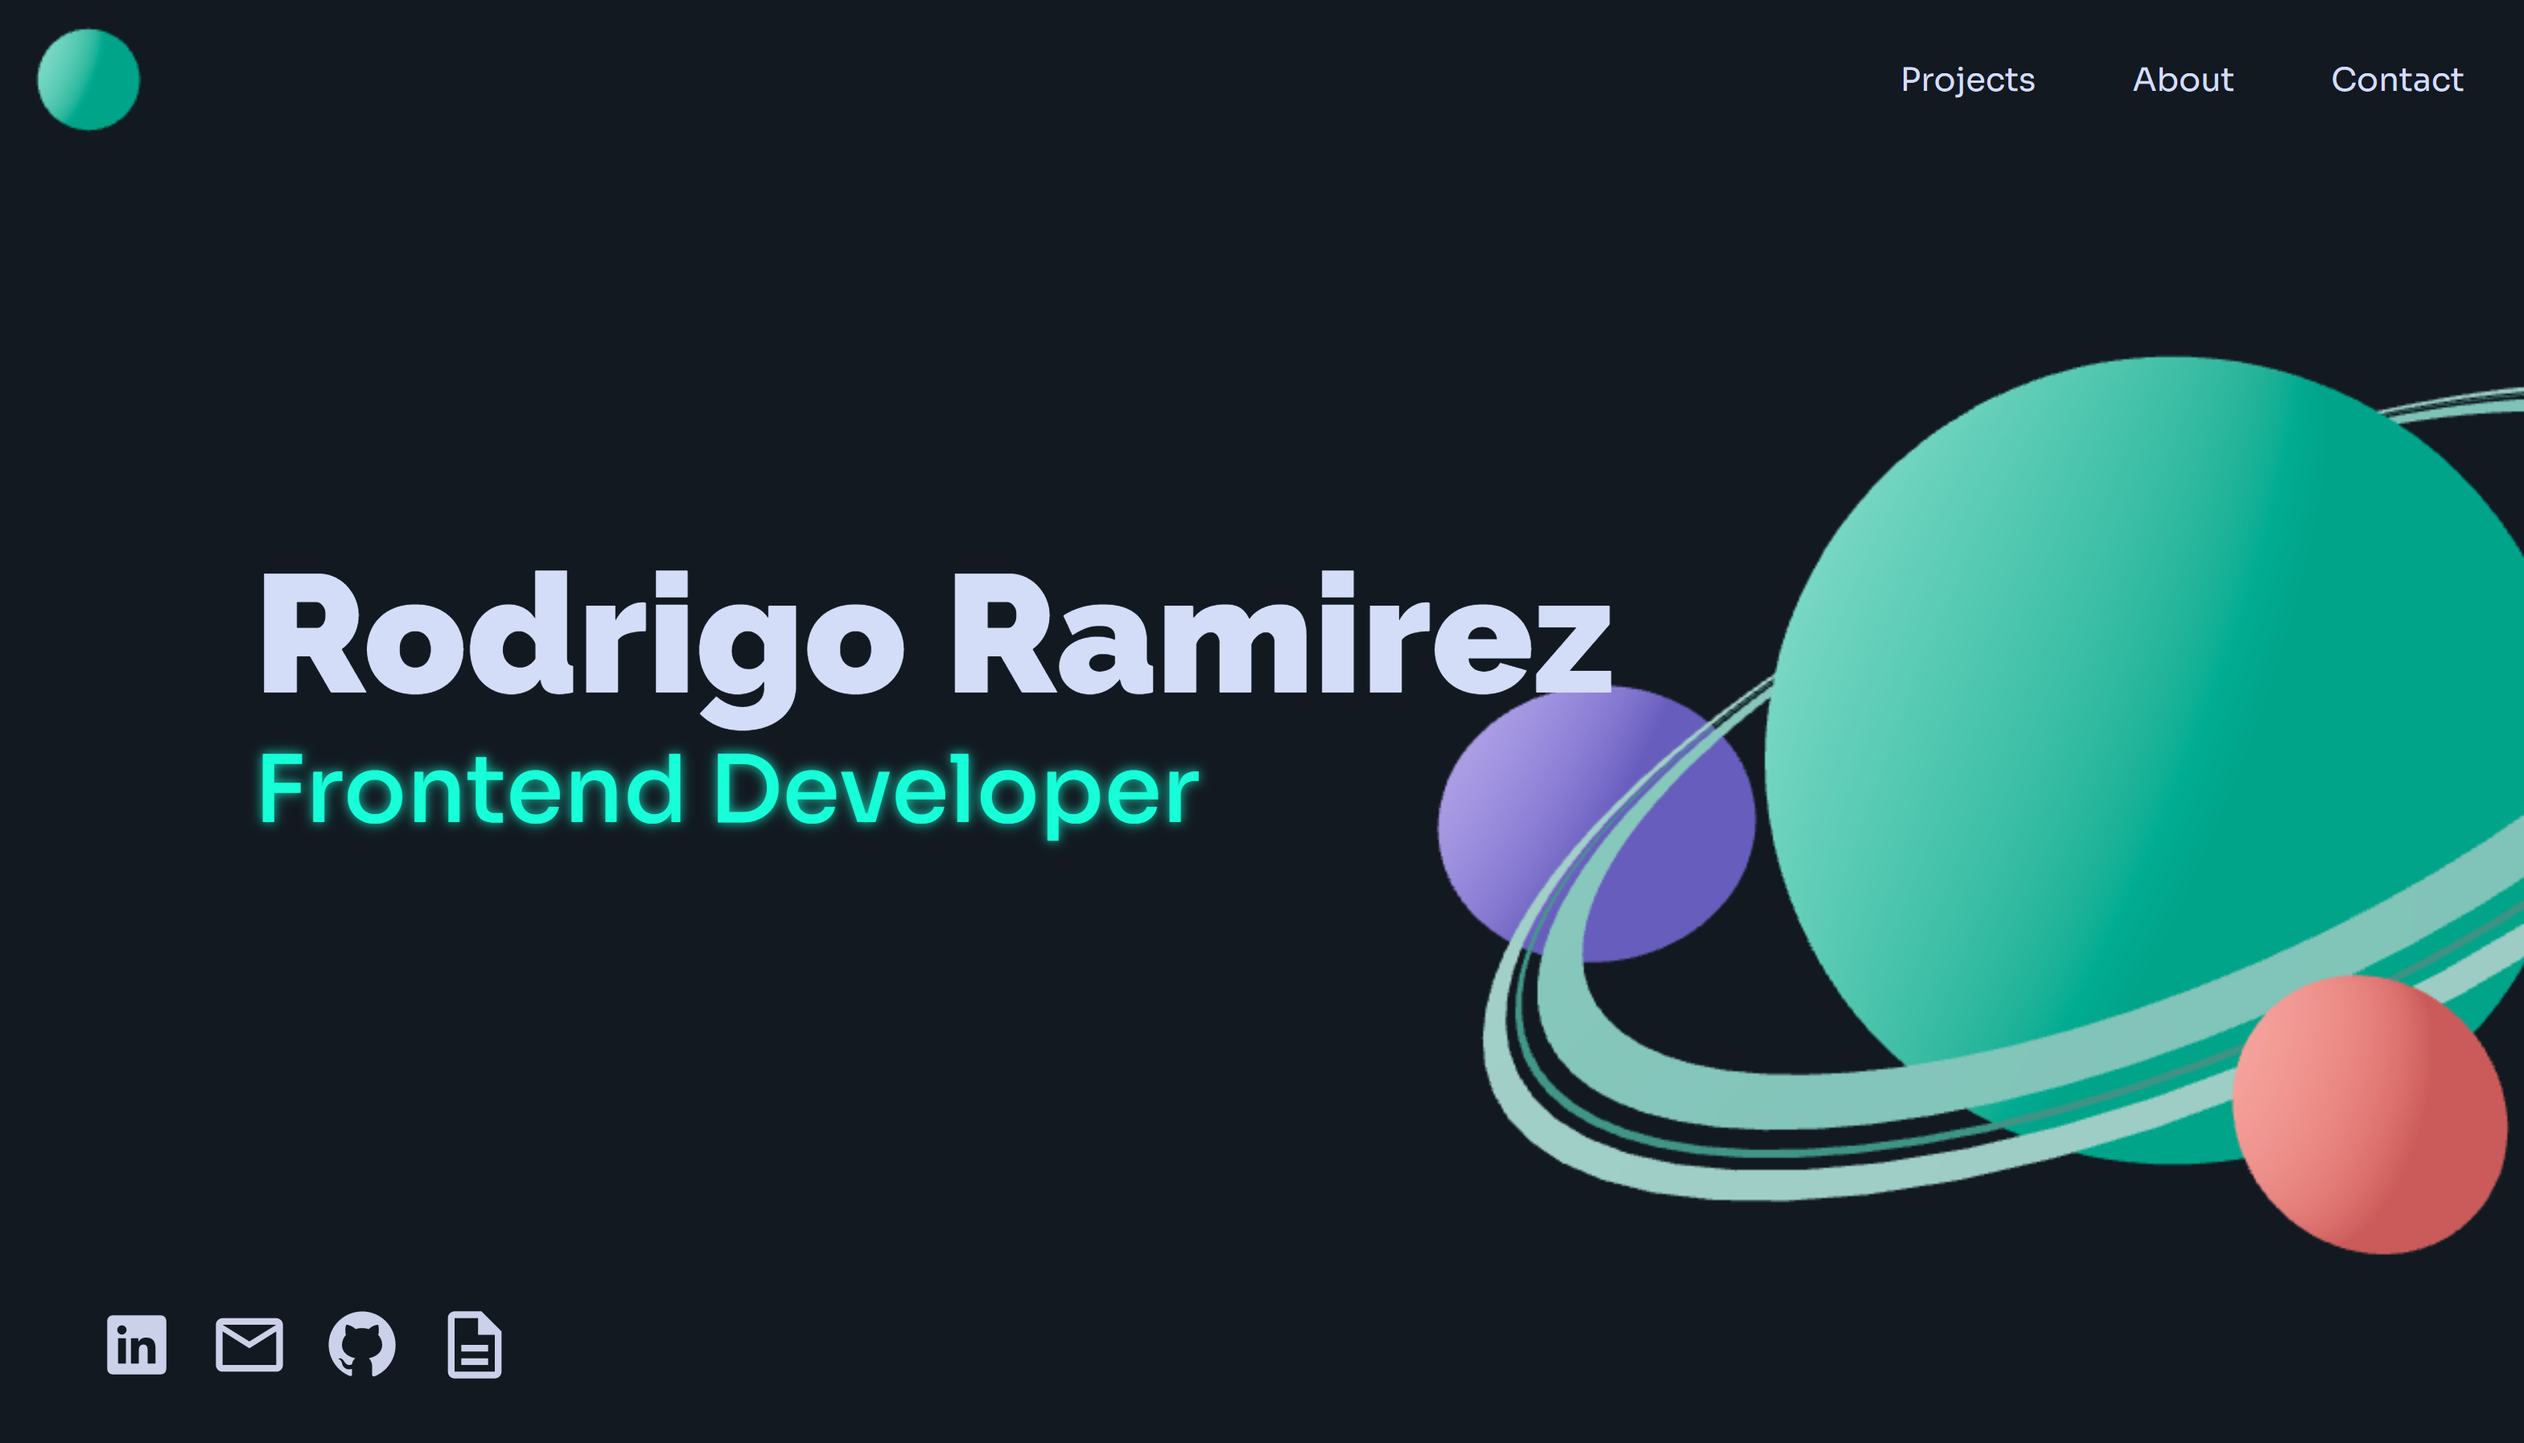
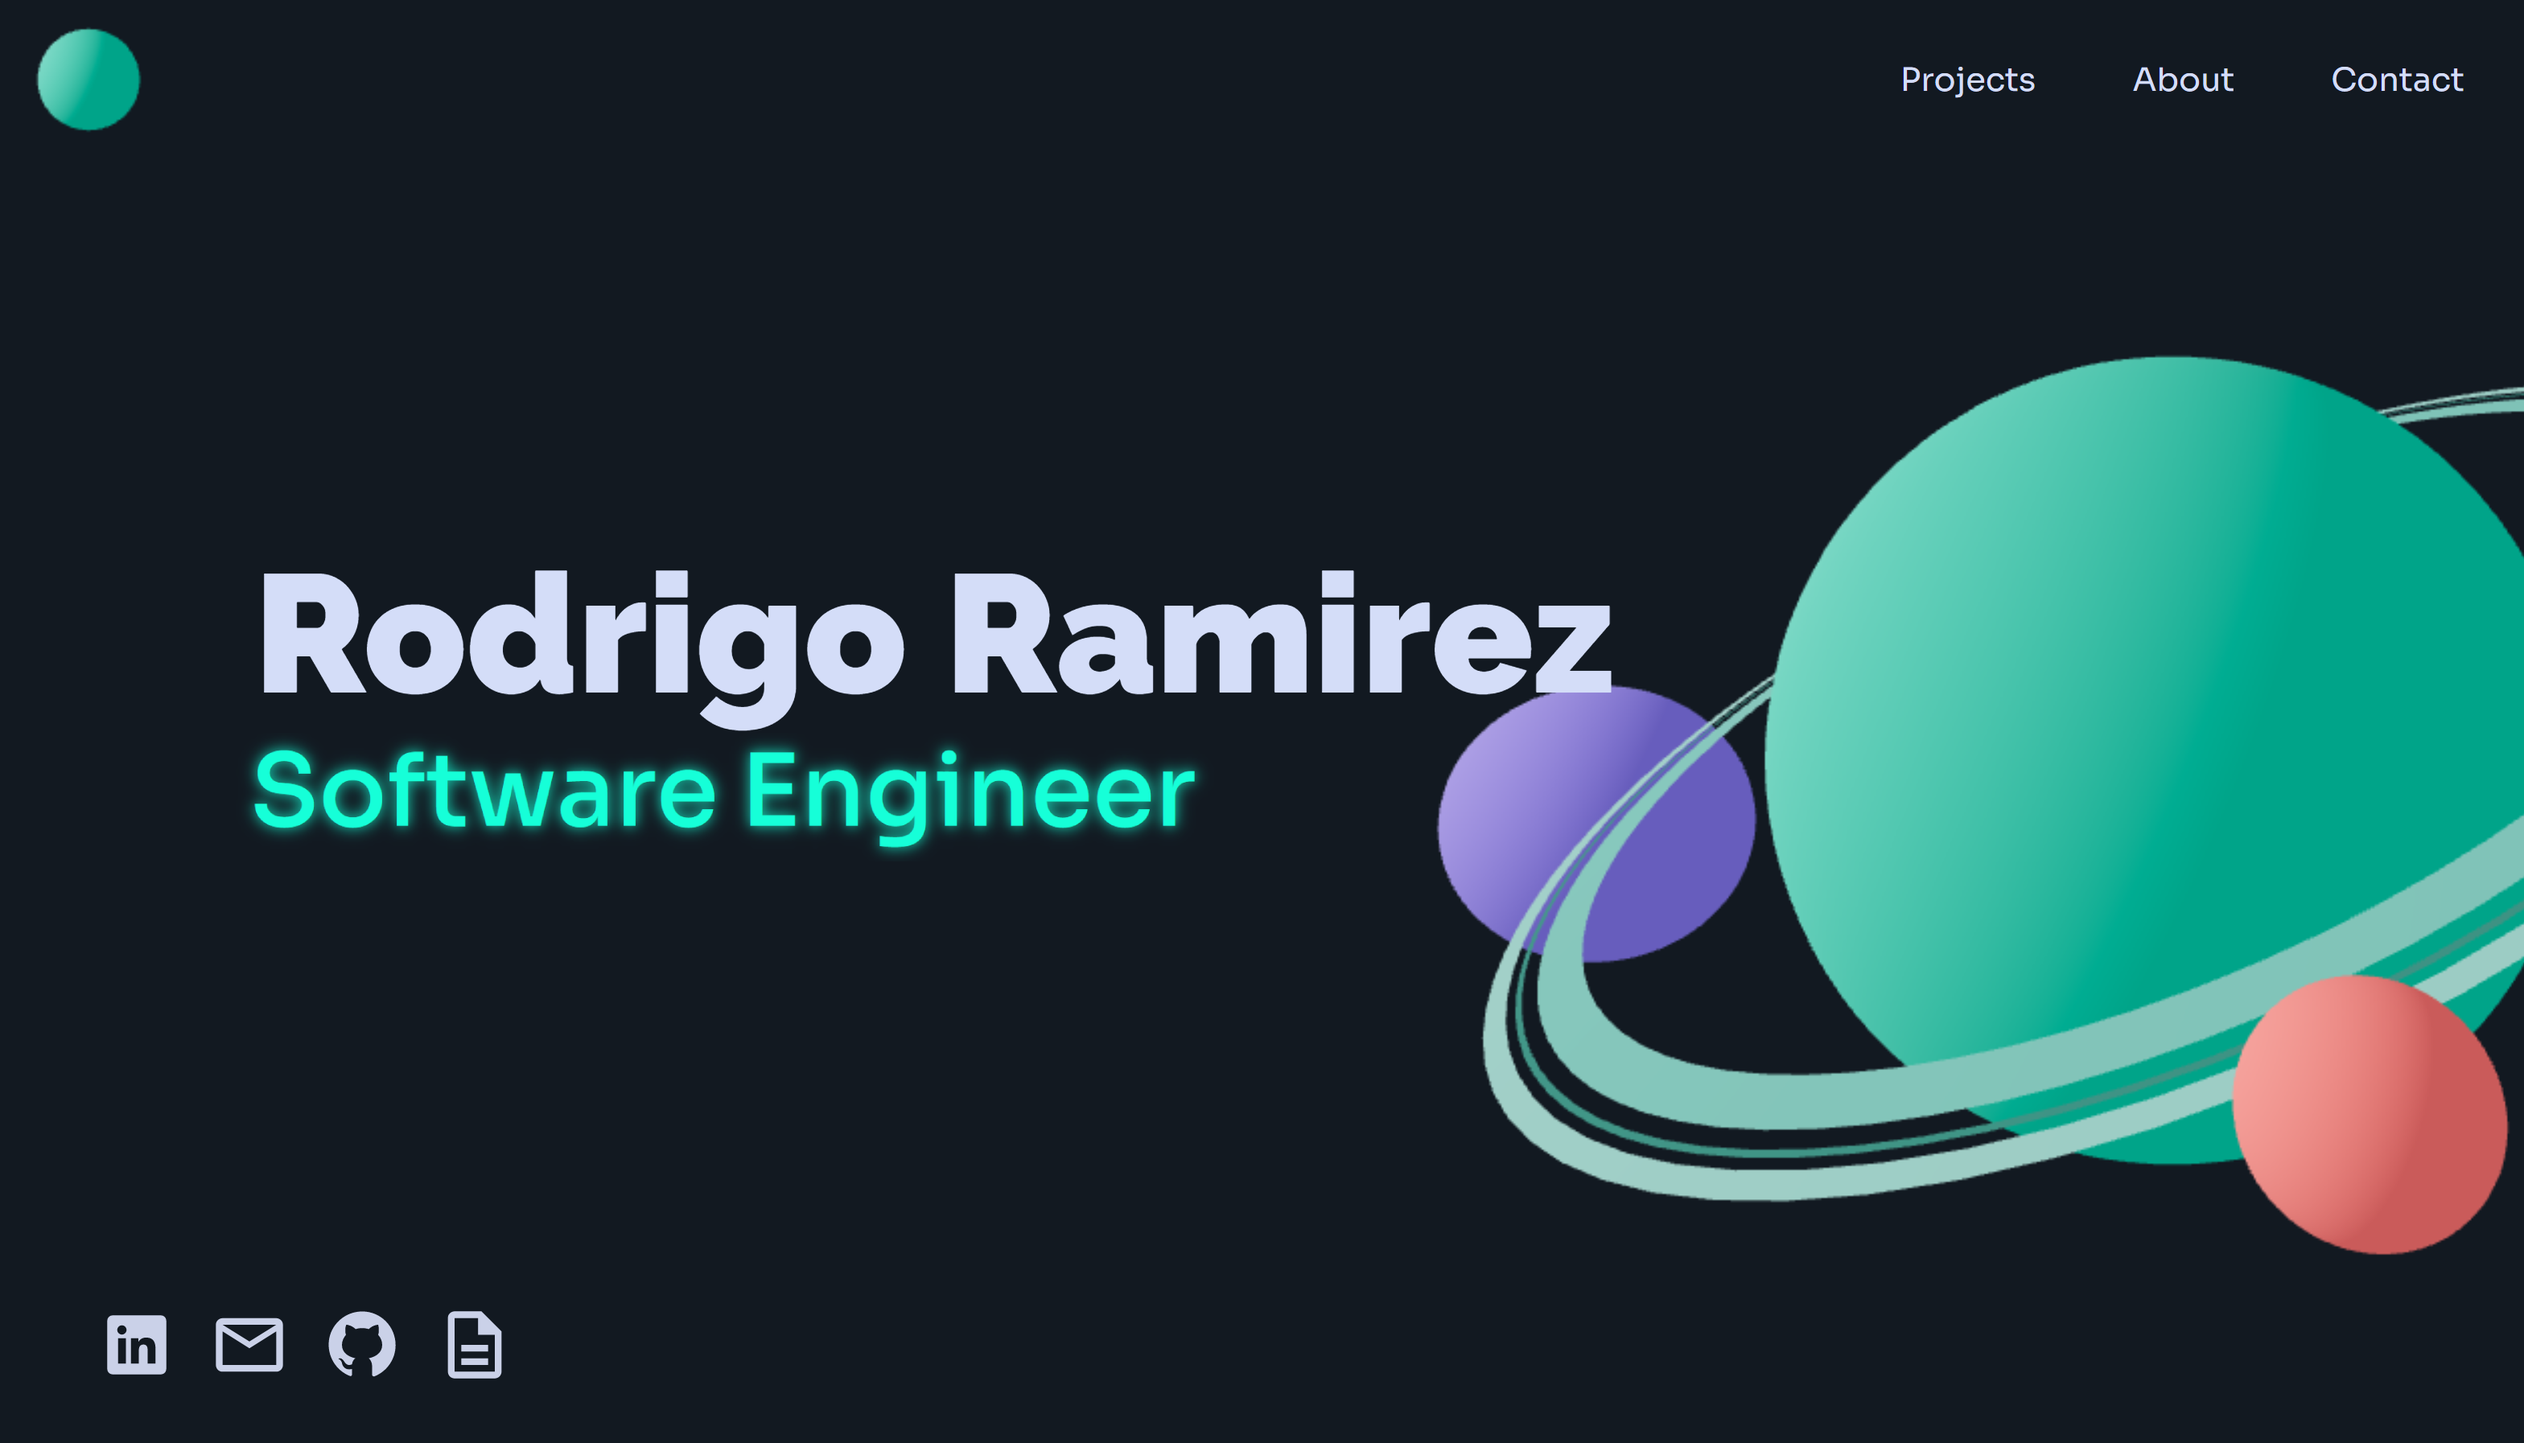
⚡Replace Job Title
Replace on README.md, components, package.json, and image

Changed region(s): [[0.0937, 0.4994, 0.4686, 0.5931]]

diff --git a/src/components/helmets/homeHelmet.js b/src/components/helmets/homeHelmet.js
@@ -5,10 +5,10 @@ const HomeHelmet = () => {
   return (
     <Helmet>
       <meta charSet="utf-8" />
-      <title>Rodrigo Ramirez · Web Developer Portfolio</title>
+      <title>Rodrigo Ramirez · Software Engineer Portfolio</title>
       <meta name="theme-color" content="#16ffd8" />
       <link rel="canonical" href="https://rodrigoramirez.dev" />
-      <meta property="og:title" content="Web Development Portfolio" />
+      <meta property="og:title" content="Software Engineer Portfolio" />
       <meta property="og:url" content="https://rodrigoramirez.dev" />
       <meta
         property="og:image"
@@ -27,7 +27,7 @@ const HomeHelmet = () => {
       />
       <meta
         name="description"
-        content="Web Development Portfolio of Rodrigo Ramirez. Software Engineer specialized in JavaScript Frameworks like React and Vue."
+        content="Software Engineer Portfolio of Rodrigo Ramirez. Software Engineer specialized in JavaScript Frameworks like React and Vue."
       />
       <meta name="image" content="/sphere.png" />
     </Helmet>

diff --git a/src/components/projectsInfo.js b/src/components/projectsInfo.js
@@ -62,9 +62,9 @@ const portfolio = {
   title: "Front End Portfolio",
   name: "portfolio",
   keywords: "this.portfolio",
-  summary: "Front End Web development Porfolio.",
+  summary: "Software Engineer Portfolio.",
   description:
-    "Front End Web development Porfolio developed using React, Gatsby and a handful of animation libraries like React Three Fiber, React Spring and Framer Motion to add interaction to the website.",
+    "Software Engineer Portfolio developed using React, Gatsby and a handful of animation libraries like React Three Fiber, React Spring and Framer Motion to add interaction to the website.",
   tags: "Gatsby Framer Motion",
   palette: [
     { background: "#16ffd8", text: "#353535" },

diff --git a/src/components/helmets/allProjectsHelmet.js b/src/components/helmets/allProjectsHelmet.js
@@ -5,10 +5,10 @@ const AllProjectsHelmet = () => {
   return (
     <Helmet>
       <meta charSet="utf-8" />
-      <title>Projects · Rodrigo Ramirez · Web Developer Portfolio</title>
+      <title>Projects · Rodrigo Ramirez · Software Engineer Portfolio</title>
       <meta name="theme-color" content="#16ffd8" />
       <link rel="canonical" href="https://rodrigoramirez.dev" />
-      <meta property="og:title" content="Web Development Portfolio" />
+      <meta property="og:title" content="Software Engineer Portfolio" />
       <meta property="og:url" content="https://rodrigoramirez.dev" />
       <meta property="og:image" content="/sphere.png" />
       <meta property="og:type" content="website" />

diff --git a/README.md b/README.md
@@ -2,7 +2,7 @@
 
 # Hello! 👋
 
-My Name is **Rodrigo Ramirez**, and this is the code repository for my web development portfolio.
+My Name is **Rodrigo Ramirez**, and this is the code repository for my Software Engineer Portfolio.
 
 This portfolio was made using React.js and is a compilation of my most important Front-End projects, mostly Single-Page Application Frameworks/Libraries (React, Vue, Next, Nuxt).
 
